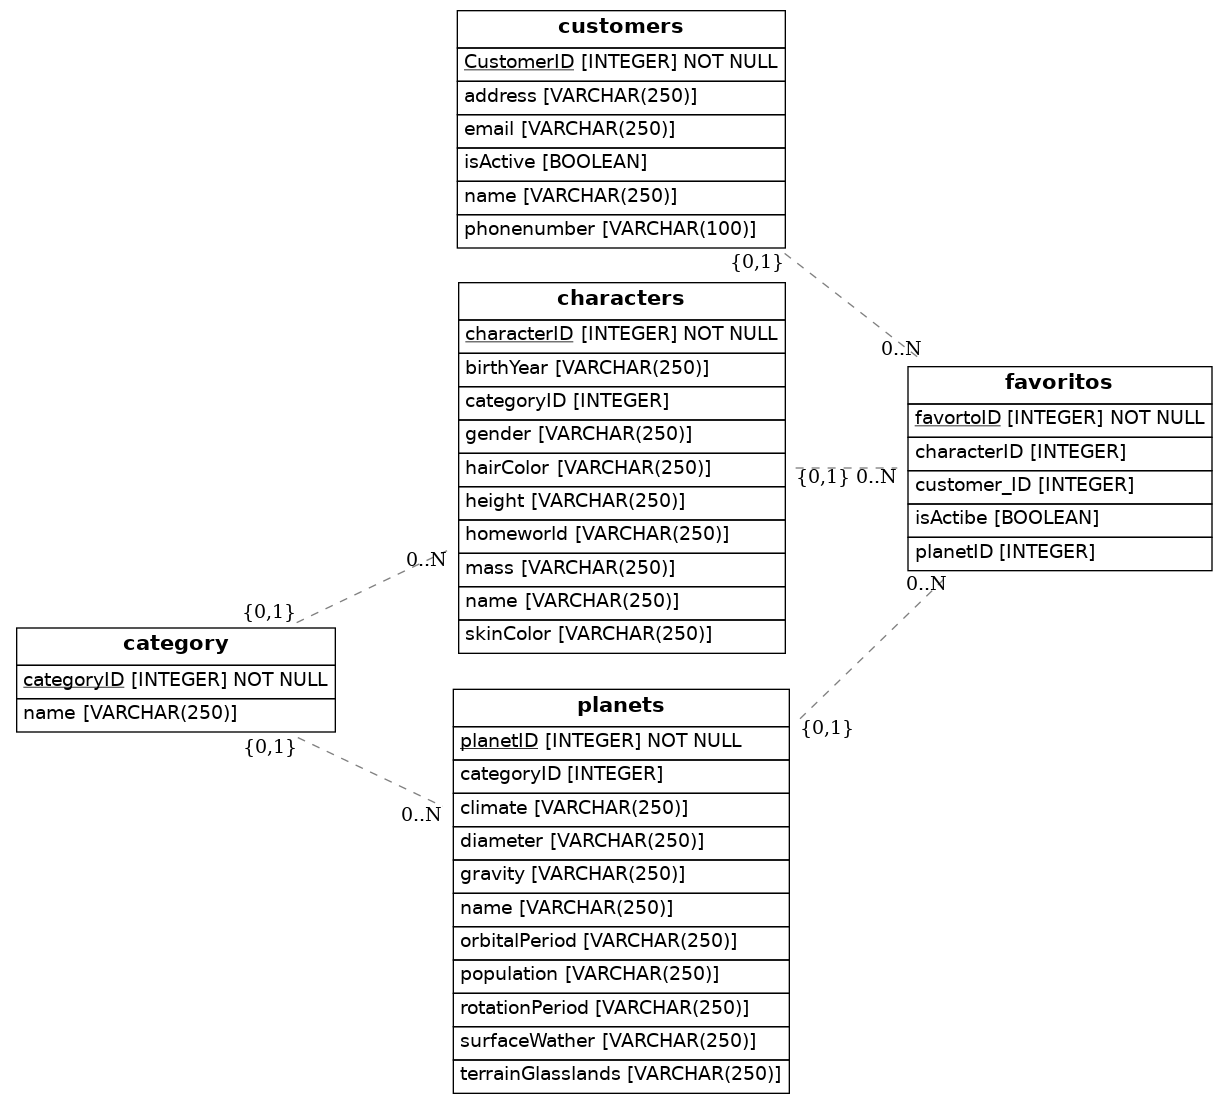
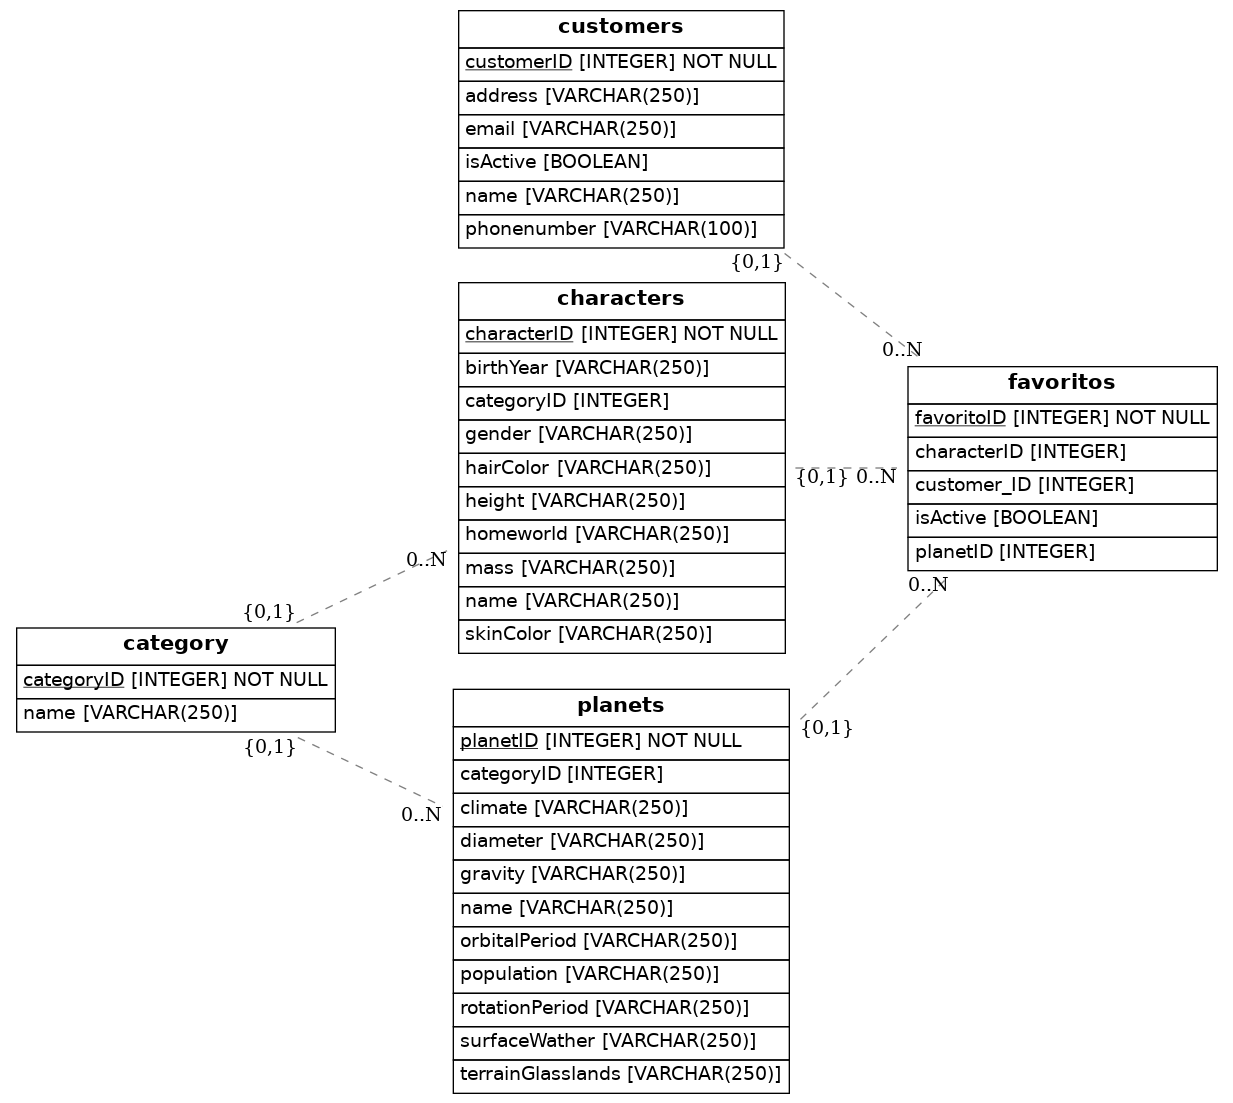
update diagrama

diff --git a/src/models.py b/src/models.py
@@ -11,7 +11,7 @@ Base = declarative_base()
 class Customers(Base): 
     __tablename__ = 'customers'
     # Here we define columns for the table.
-    CustomerID = Column(Integer, primary_key=True)
+    customerID = Column(Integer, primary_key=True)
     name = Column(String(250))
     email = Column(String(250), nullable=True)
     phonenumber = Column(String(100), nullable=True)
@@ -20,11 +20,11 @@ class Customers(Base):
 
 class Favoritos(Base): 
     __tablename__ = 'favoritos'
-    favortoID = Column(Integer, primary_key=True)
+    favoritoID = Column(Integer, primary_key=True)
     customer_ID = Column(Integer, ForeignKey('customers.customerID'))
     characterID = Column(Integer, ForeignKey('characters.characterID'))
     planetID = Column(Integer, ForeignKey('planets.olanetID'))
-    isActibe = Column(Boolean) 
+    isActive = Column(Boolean) 
     customer = relationship(Customers)
 
 class Characters(Base): 
